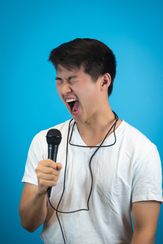
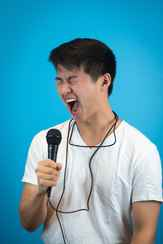
compressed

diff --git a/frontend/src/components/About/CurrentContributors.tsx b/frontend/src/components/About/CurrentContributors.tsx
@@ -5,35 +5,35 @@ import { H3 } from 'bt/custom'
 
 import { ReactComponent as Web } from '../../assets/svg/about/web.svg';
 
-import annie_1 from 'assets/img/about/2020-21/annie_1.png';
-import annie_2 from 'assets/img/about/2020-21/annie_2.png';
-import austin_1 from 'assets/img/about/2020-21/austin_1.png';
-import austin_2 from 'assets/img/about/2020-21/austin_2.png';
-import chris_1 from 'assets/img/about/2020-21/chris_1.png';
-import chris_2 from 'assets/img/about/2020-21/chris_2.png';
-import christina_1 from 'assets/img/about/2020-21/christina_1.png';
-import christina_2 from 'assets/img/about/2020-21/christina_2.png';
-import grace_1 from 'assets/img/about/2020-21/grace_1.png';
-import grace_2 from 'assets/img/about/2020-21/grace_2.png';
-import hannah_1 from 'assets/img/about/2020-21/hannah_1.png';
-import hannah_2 from 'assets/img/about/2020-21/hannah_2.png';
-import hiroshi_1 from 'assets/img/about/2020-21/hiroshi_1.png';
-import hiroshi_2 from 'assets/img/about/2020-21/hiroshi_2.png';
-import janet_1 from 'assets/img/about/2020-21/janet_1.png';
-import janet_2 from 'assets/img/about/2020-21/janet_2.png';
-import jonathan_1 from 'assets/img/about/2020-21/jonathan_1.png';
-import jonathan_2 from 'assets/img/about/2020-21/jonathan_2.png';
-import junghyun_1 from 'assets/img/about/2020-21/junghyun_1.png';
-import junghyun_2 from 'assets/img/about/2020-21/junghyun_2.png';
-import kevin_1 from 'assets/img/about/2020-21/kevin_1.png';
-import kevin_2 from 'assets/img/about/2020-21/kevin_2.png';
-import leon_1 from 'assets/img/about/2020-21/leon_1.png';
-import leon_2 from 'assets/img/about/2020-21/leon_2.png';
-import shuming_1 from 'assets/img/about/2020-21/shuming_1.png';
-import shuming_2 from 'assets/img/about/2020-21/shuming_2.png';
-import vihan_1 from 'assets/img/about/2020-21/vihan_1.png';
-import vihan_2 from 'assets/img/about/2020-21/vihan_1.png';
-import michael_1 from 'assets/img/about/2020-21/michael_1.png';
+import annie_1 from 'assets/img/about/2020-21/annie_1.jpg';
+import annie_2 from 'assets/img/about/2020-21/annie_2.jpg';
+import austin_1 from 'assets/img/about/2020-21/austin_1.jpg';
+import austin_2 from 'assets/img/about/2020-21/austin_2.jpg';
+import chris_1 from 'assets/img/about/2020-21/chris_1.jpg';
+import chris_2 from 'assets/img/about/2020-21/chris_2.jpg';
+import christina_1 from 'assets/img/about/2020-21/christina_1.jpg';
+import christina_2 from 'assets/img/about/2020-21/christina_2.jpg';
+import grace_1 from 'assets/img/about/2020-21/grace_1.jpg';
+import grace_2 from 'assets/img/about/2020-21/grace_2.jpg';
+import hannah_1 from 'assets/img/about/2020-21/hannah_1.jpg';
+import hannah_2 from 'assets/img/about/2020-21/hannah_2.jpg';
+import hiroshi_1 from 'assets/img/about/2020-21/hiroshi_1.jpg';
+import hiroshi_2 from 'assets/img/about/2020-21/hiroshi_2.jpg';
+import janet_1 from 'assets/img/about/2020-21/janet_1.jpg';
+import janet_2 from 'assets/img/about/2020-21/janet_2.jpg';
+import jonathan_1 from 'assets/img/about/2020-21/jonathan_1.jpg';
+import jonathan_2 from 'assets/img/about/2020-21/jonathan_2.jpg';
+import junghyun_1 from 'assets/img/about/2020-21/junghyun_1.jpg';
+import junghyun_2 from 'assets/img/about/2020-21/junghyun_2.jpg';
+import kevin_1 from 'assets/img/about/2020-21/kevin_1.jpg';
+import kevin_2 from 'assets/img/about/2020-21/kevin_2.jpg';
+import leon_1 from 'assets/img/about/2020-21/leon_1.jpg';
+import leon_2 from 'assets/img/about/2020-21/leon_2.jpg';
+import shuming_1 from 'assets/img/about/2020-21/shuming_1.jpg';
+import shuming_2 from 'assets/img/about/2020-21/shuming_2.jpg';
+import vihan_1 from 'assets/img/about/2020-21/vihan_1.jpg';
+import vihan_2 from 'assets/img/about/2020-21/vihan_1.jpg';
+import michael_1 from 'assets/img/about/2020-21/michael_1.jpg';
 import michael_2 from 'assets/img/about/2020-21/michael_2.jpg';
 
 

diff --git a/frontend/src/components/Dashboard/Profile.jsx b/frontend/src/components/Dashboard/Profile.jsx
@@ -1,6 +1,6 @@
 import React from 'react';
 
-import jemma from 'assets/img/about/2020-21/michael_1.png';
+import jemma from 'assets/img/about/2020-21/michael_1.jpg';
 
 function Profile({ profile }) {
   return (
